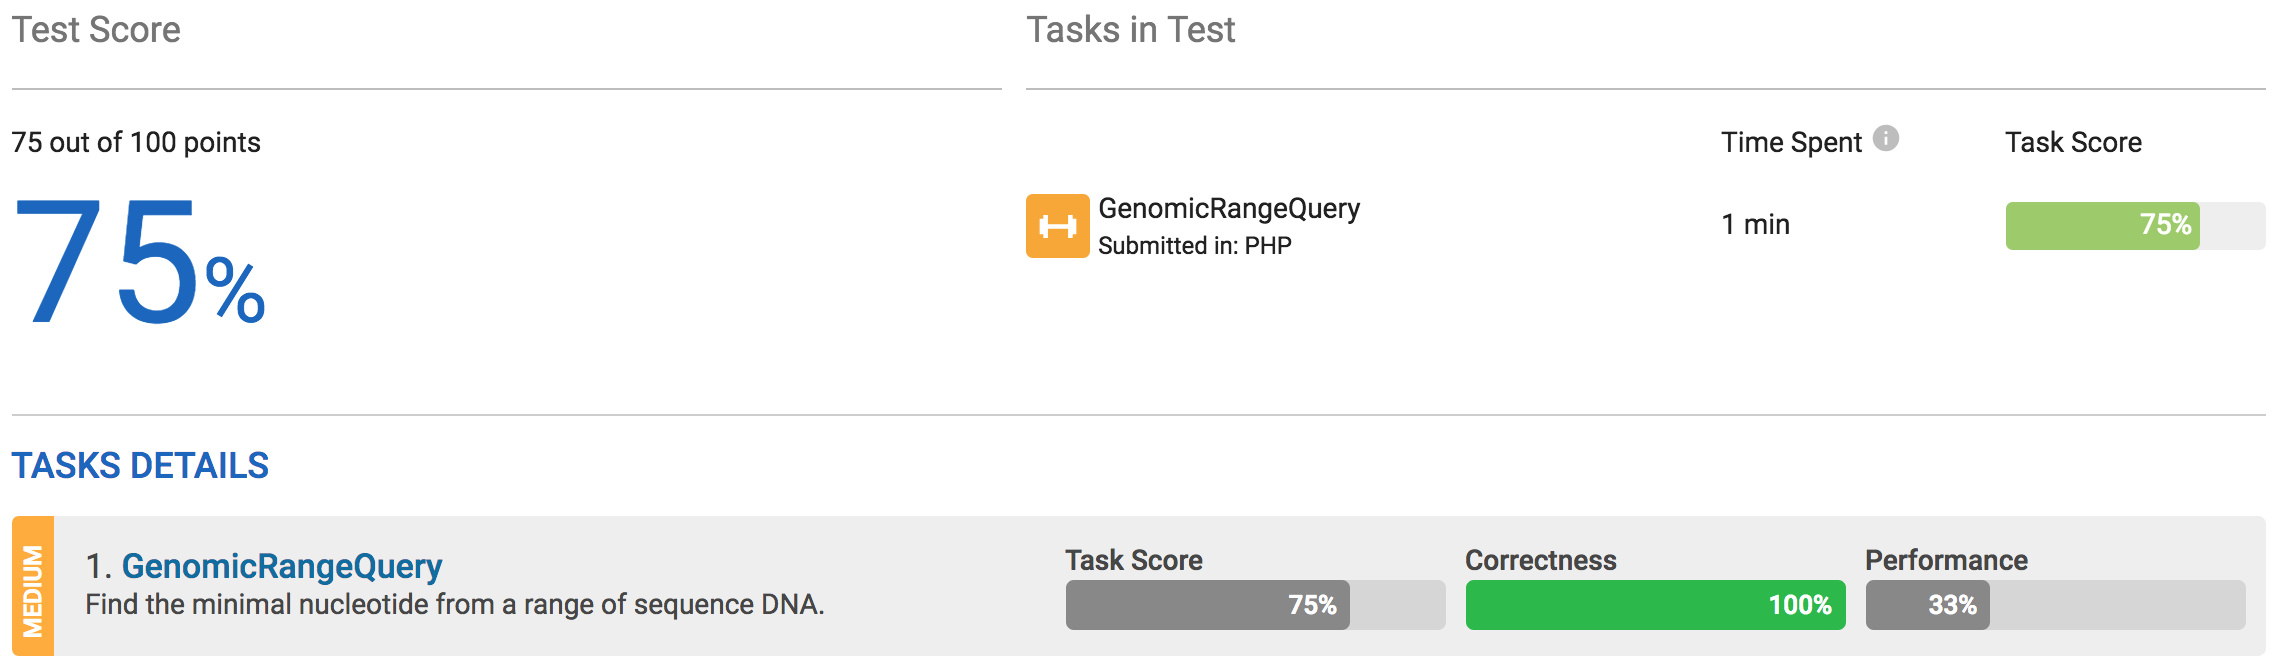
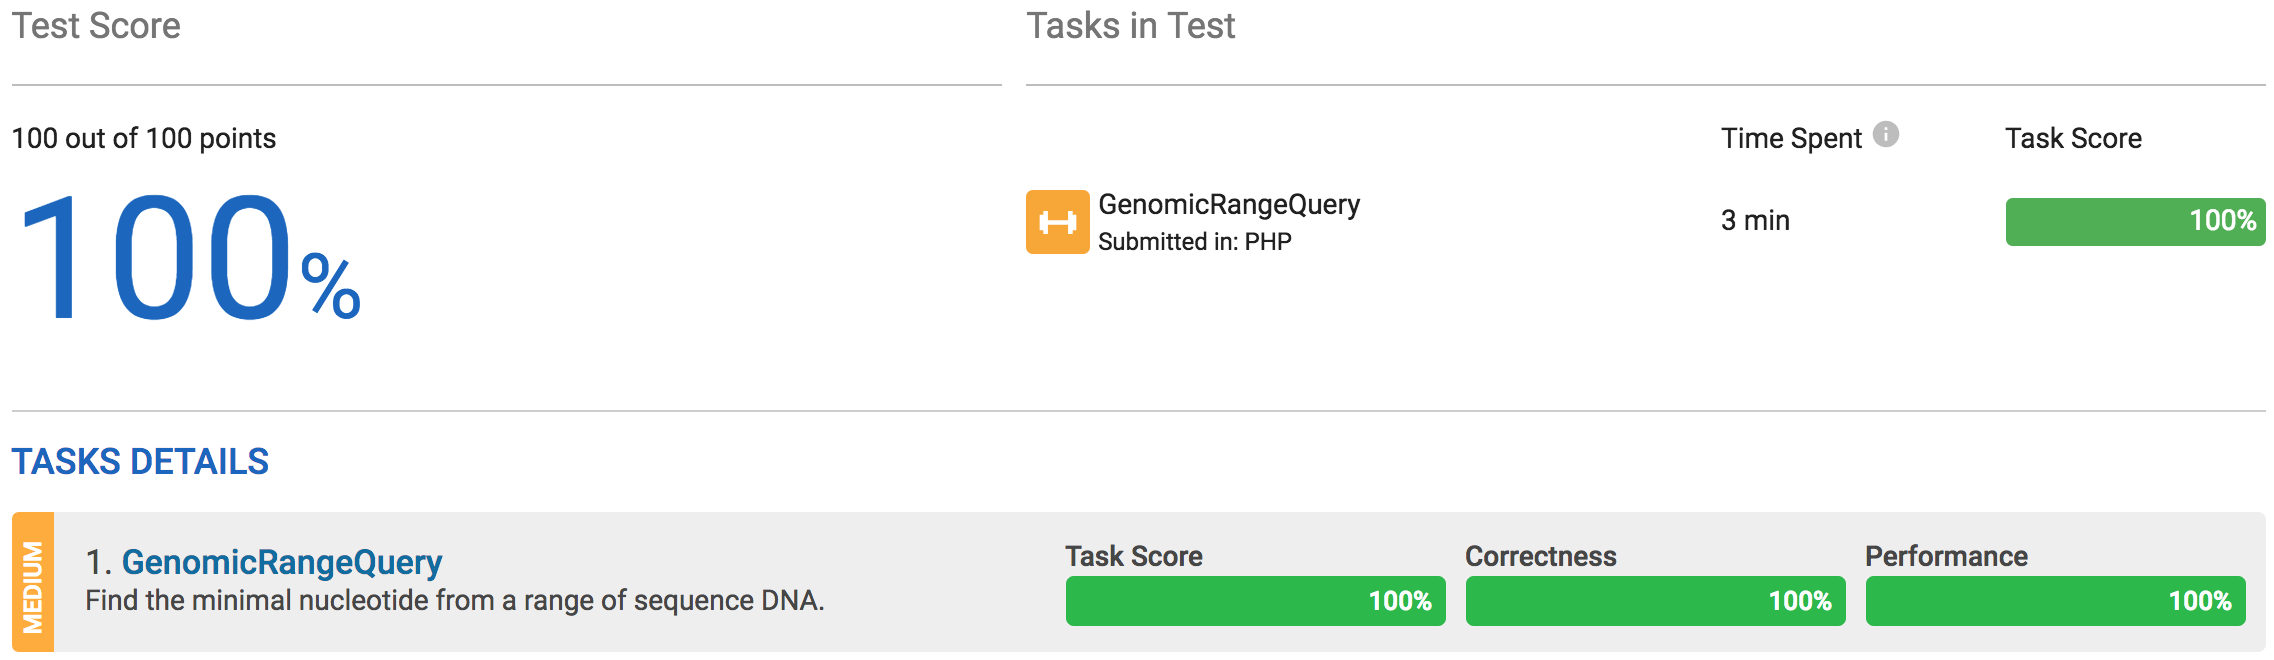
Awesome Completed for GenomicRangeQuery of Lesson_5_PrefixSums.

diff --git a/Lessons/5_PrefixSums/Tasks_GenomicRangeQuery/Answer.php b/Lessons/5_PrefixSums/Tasks_GenomicRangeQuery/Answer.php
@@ -40,31 +40,31 @@ function solution($S, $P, $Q) {
         $tmpLength = $Q[$j] - $P[$j] + 1;
 
         $tmp = substr($S, $P[$j], $tmpLength);
-        
-        if (preg_match('/(1)/', $tmp, $matches))
+
+        if (strpos($tmp, '1') !== false)
         {
             $result[$j] = 1;
             continue;
         }
 
-        if (preg_match('/(2)/', $tmp, $matches))
+        if (strpos($tmp, '2') !== false)
         {
             $result[$j] = 2;
             continue;
         }
 
-        if (preg_match('/(3)/', $tmp, $matches))
+        if (strpos($tmp, '3') !== false)
         {
             $result[$j] = 3;
             continue;
         }
 
-        if (preg_match('/(4)/', $tmp, $matches))
+        if (strpos($tmp, '4') !== false)
         {
             $result[$j] = 4;
             continue;
         }
     }
-    
+
     return $result;
 }
